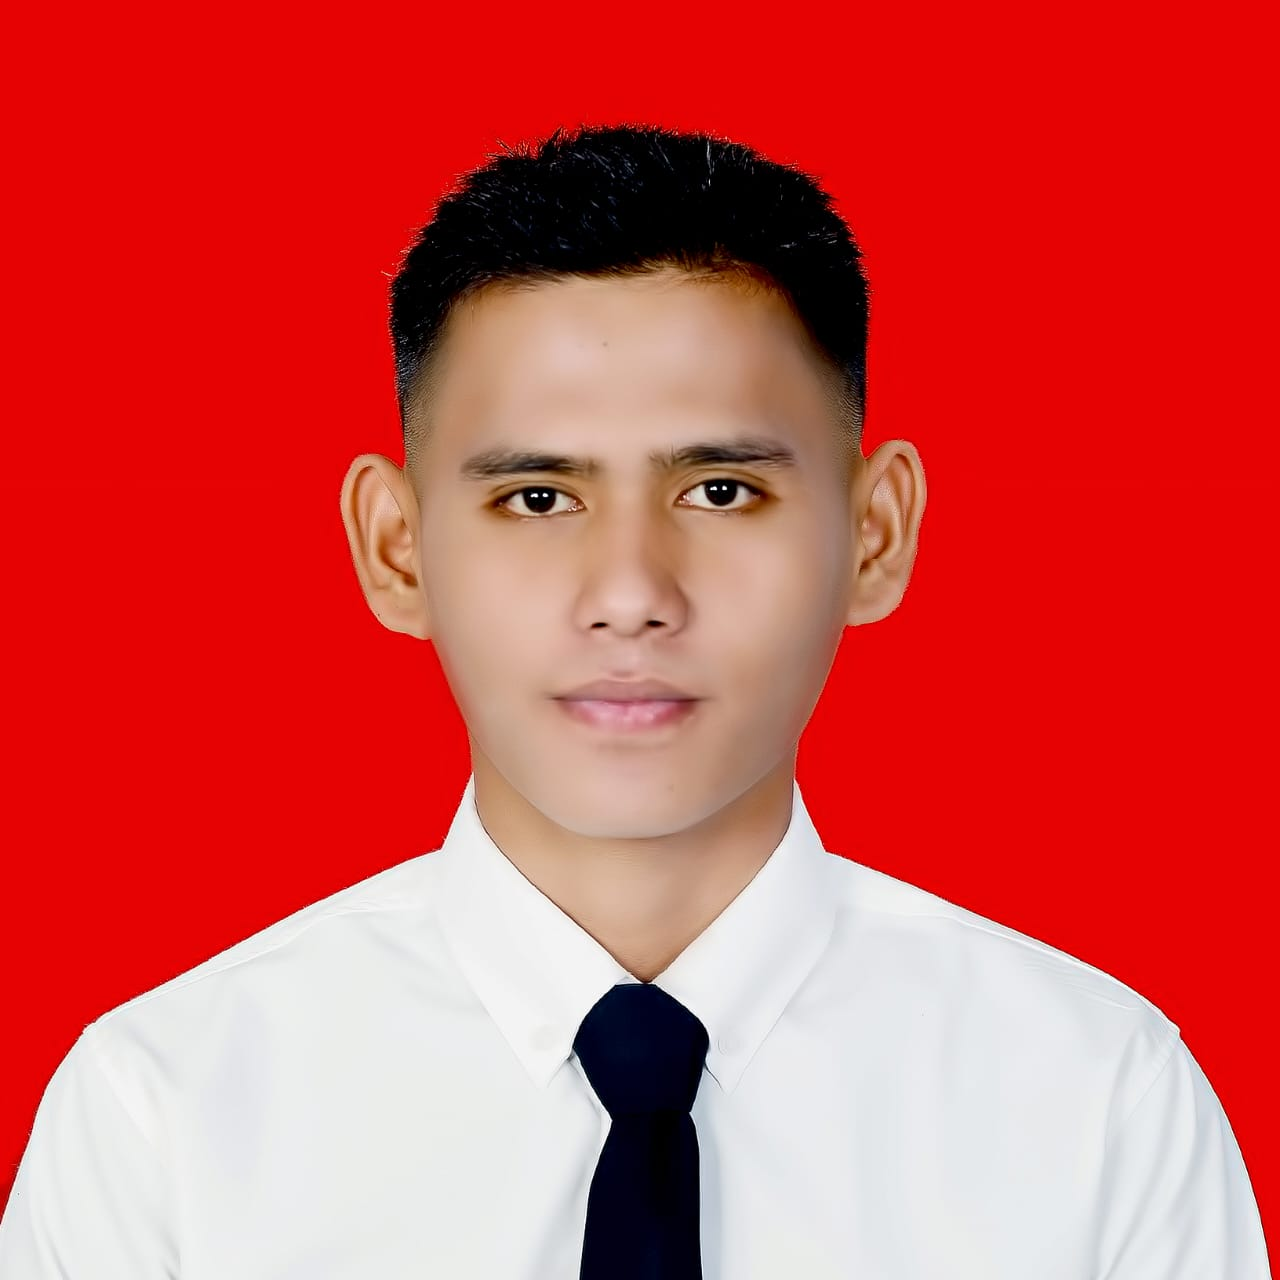
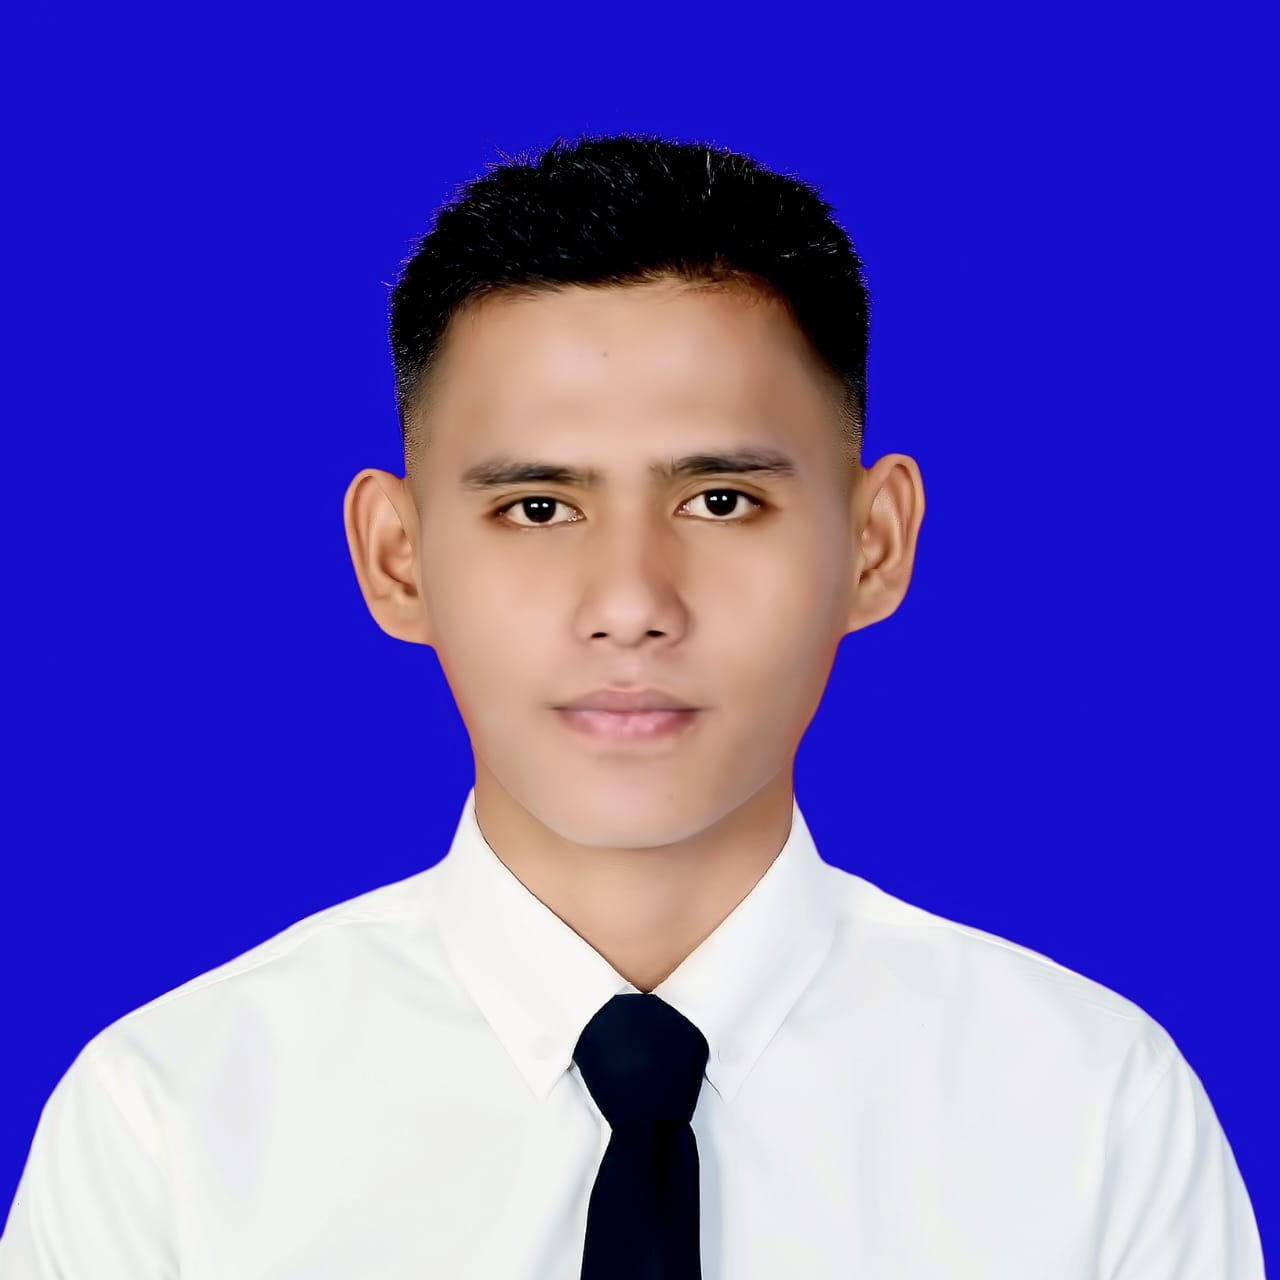
mengganti profile blue

diff --git a/style.css b/style.css
@@ -23,7 +23,7 @@ header{
     width: 100vw;
     height: 200px;
     background-size: cover;
-    background-image: url(asset/hyouka.gif);
+    background-image: url(asset/blue.gif);
     background-color: white;
     position: relative;
 }
